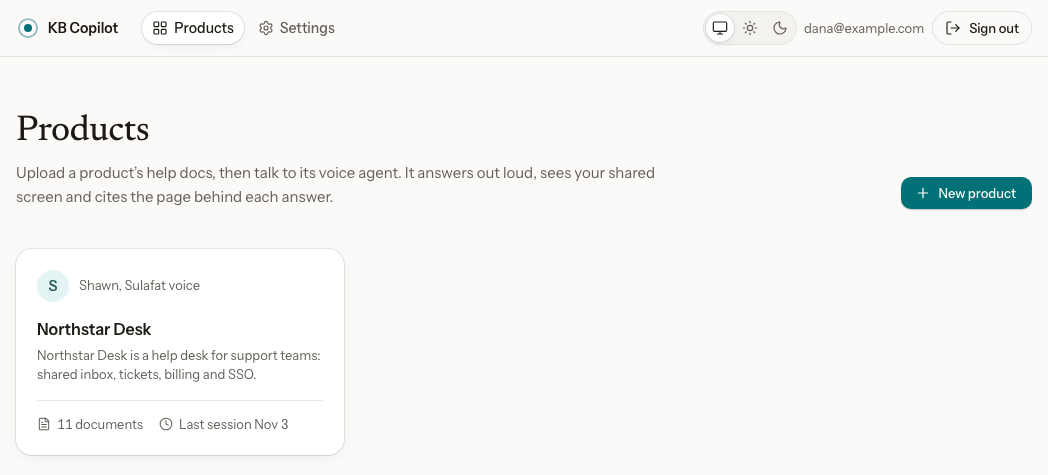
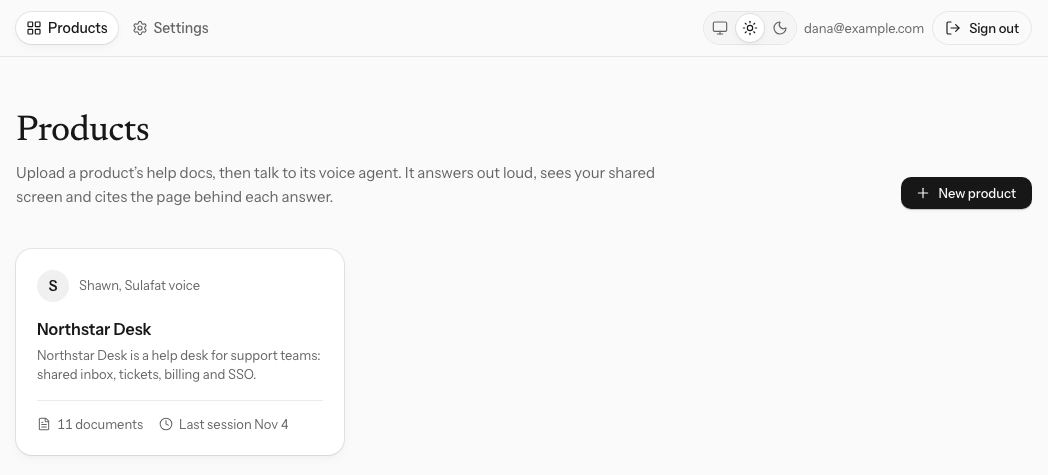
Retake the README screenshots on the neutral UI
The images still showed the teal palette and the logo that the neutral UI removed. The four real shots come from a fresh local stack. The sample session, approval and replay use seeded or fixture data on the same stack.

diff --git a/README.md b/README.md
@@ -4,7 +4,7 @@ A voice and screen-share support agent that answers from a knowledge base you up
 
 ![A session with Shawn: the shared billing screen on the left, the spoken answers with their cited sections on the right](docs/images/session-sample.png)
 
-*Sample session. The page is the real session page; the transcript and citations are fixture data.*
+*Sample session. The page is the real session page; the transcript, citations and pointer are fixture data.*
 
 ## What you can do
 
